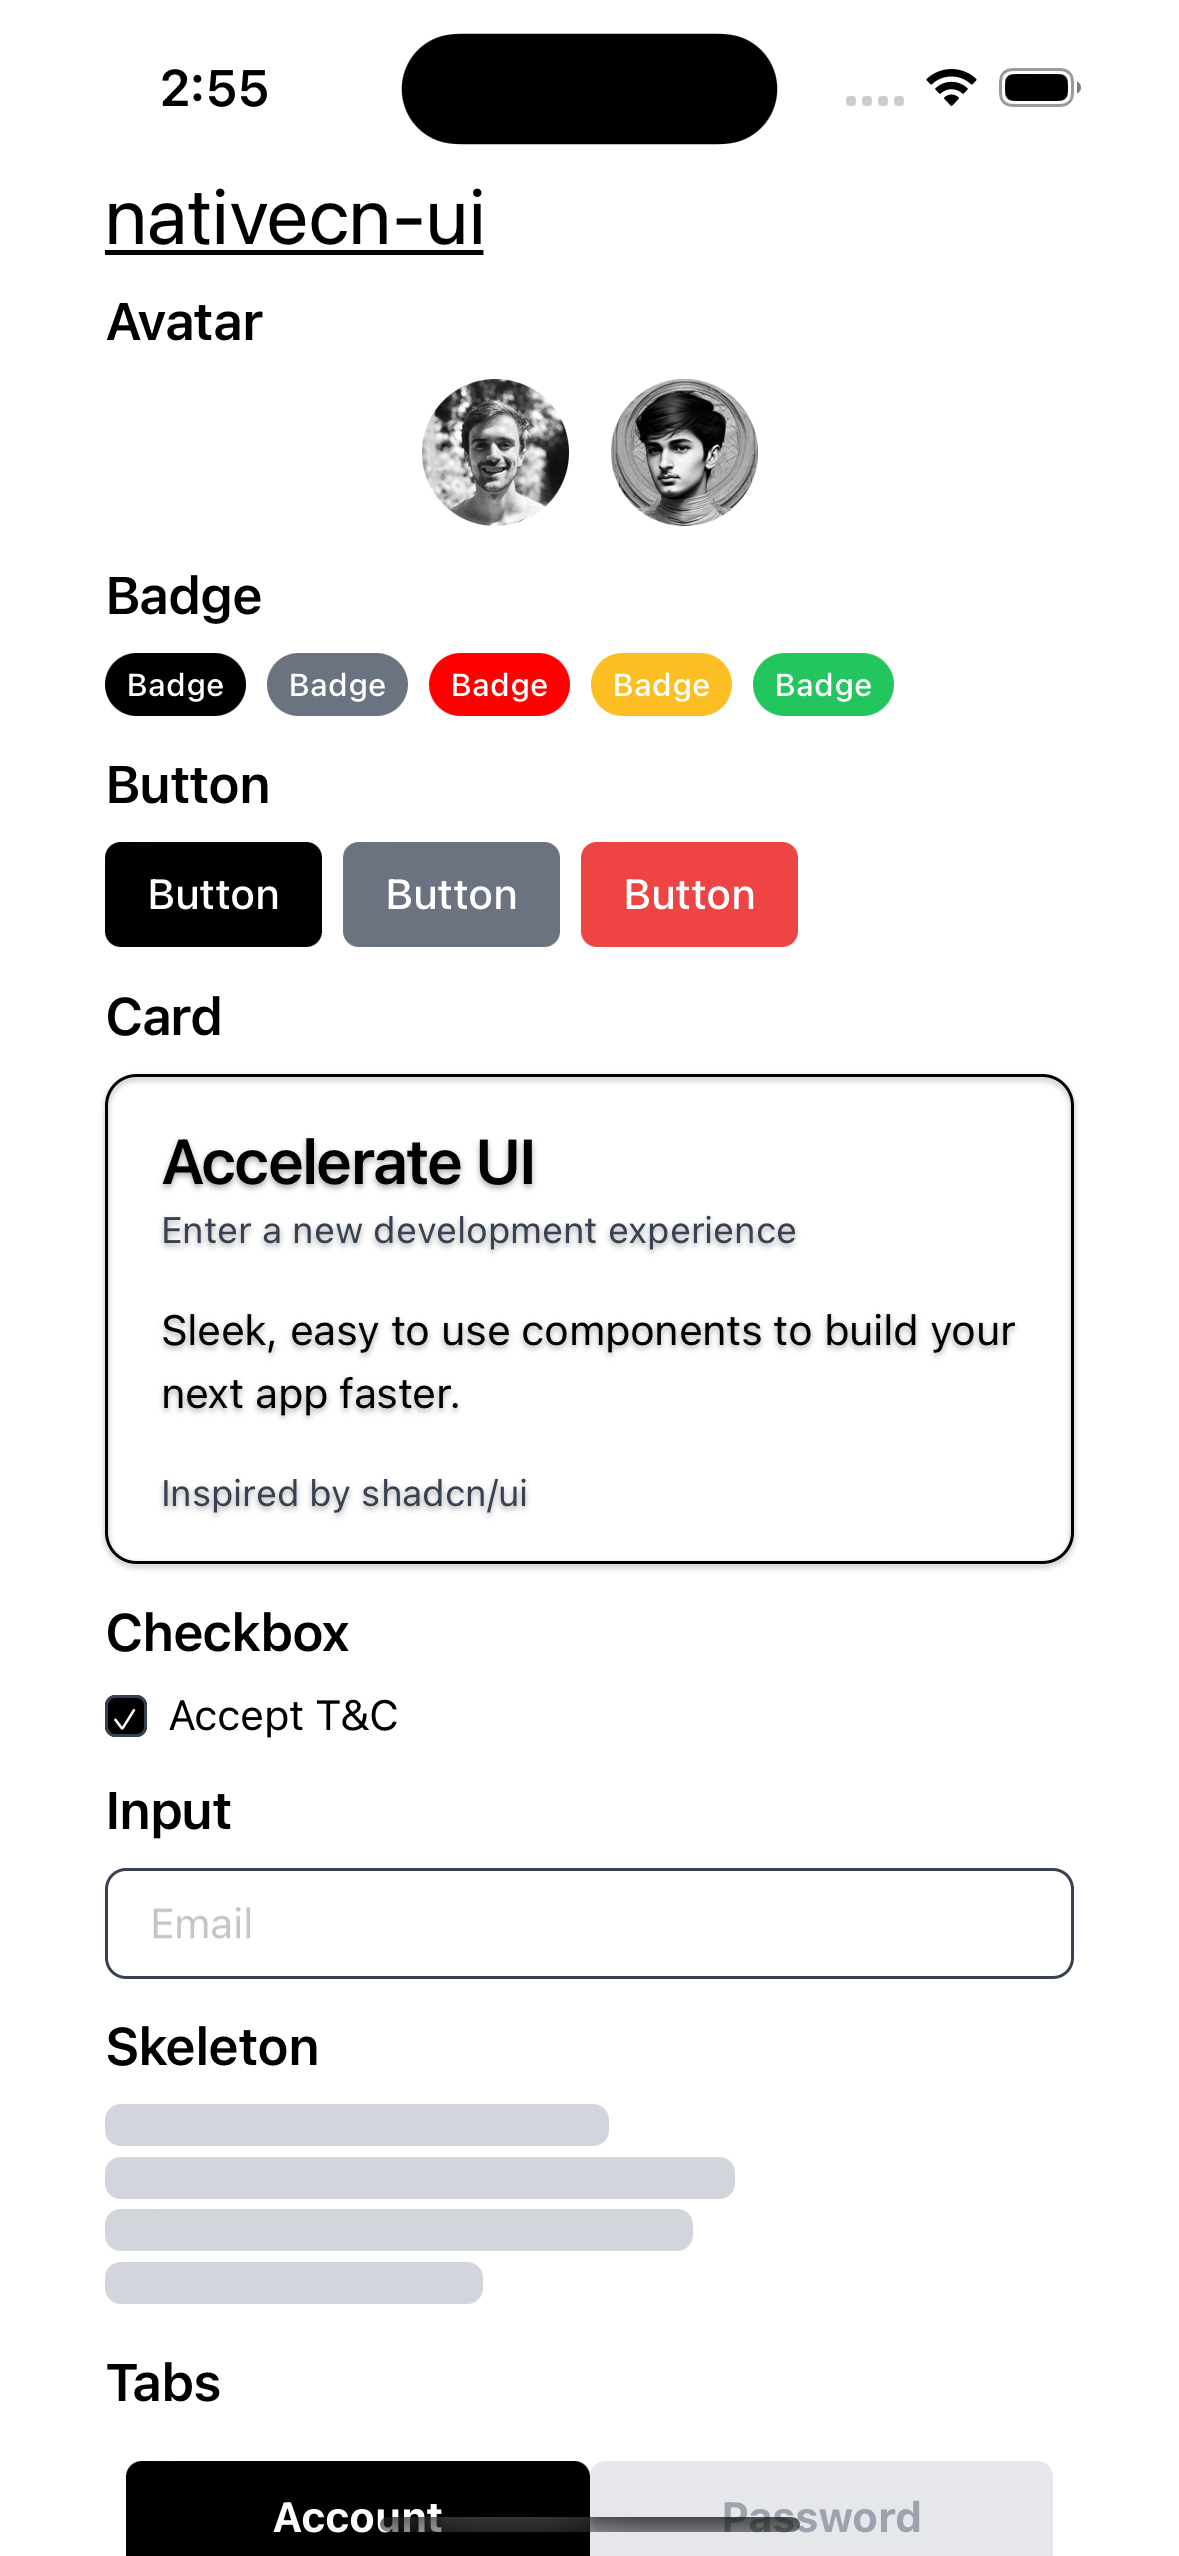
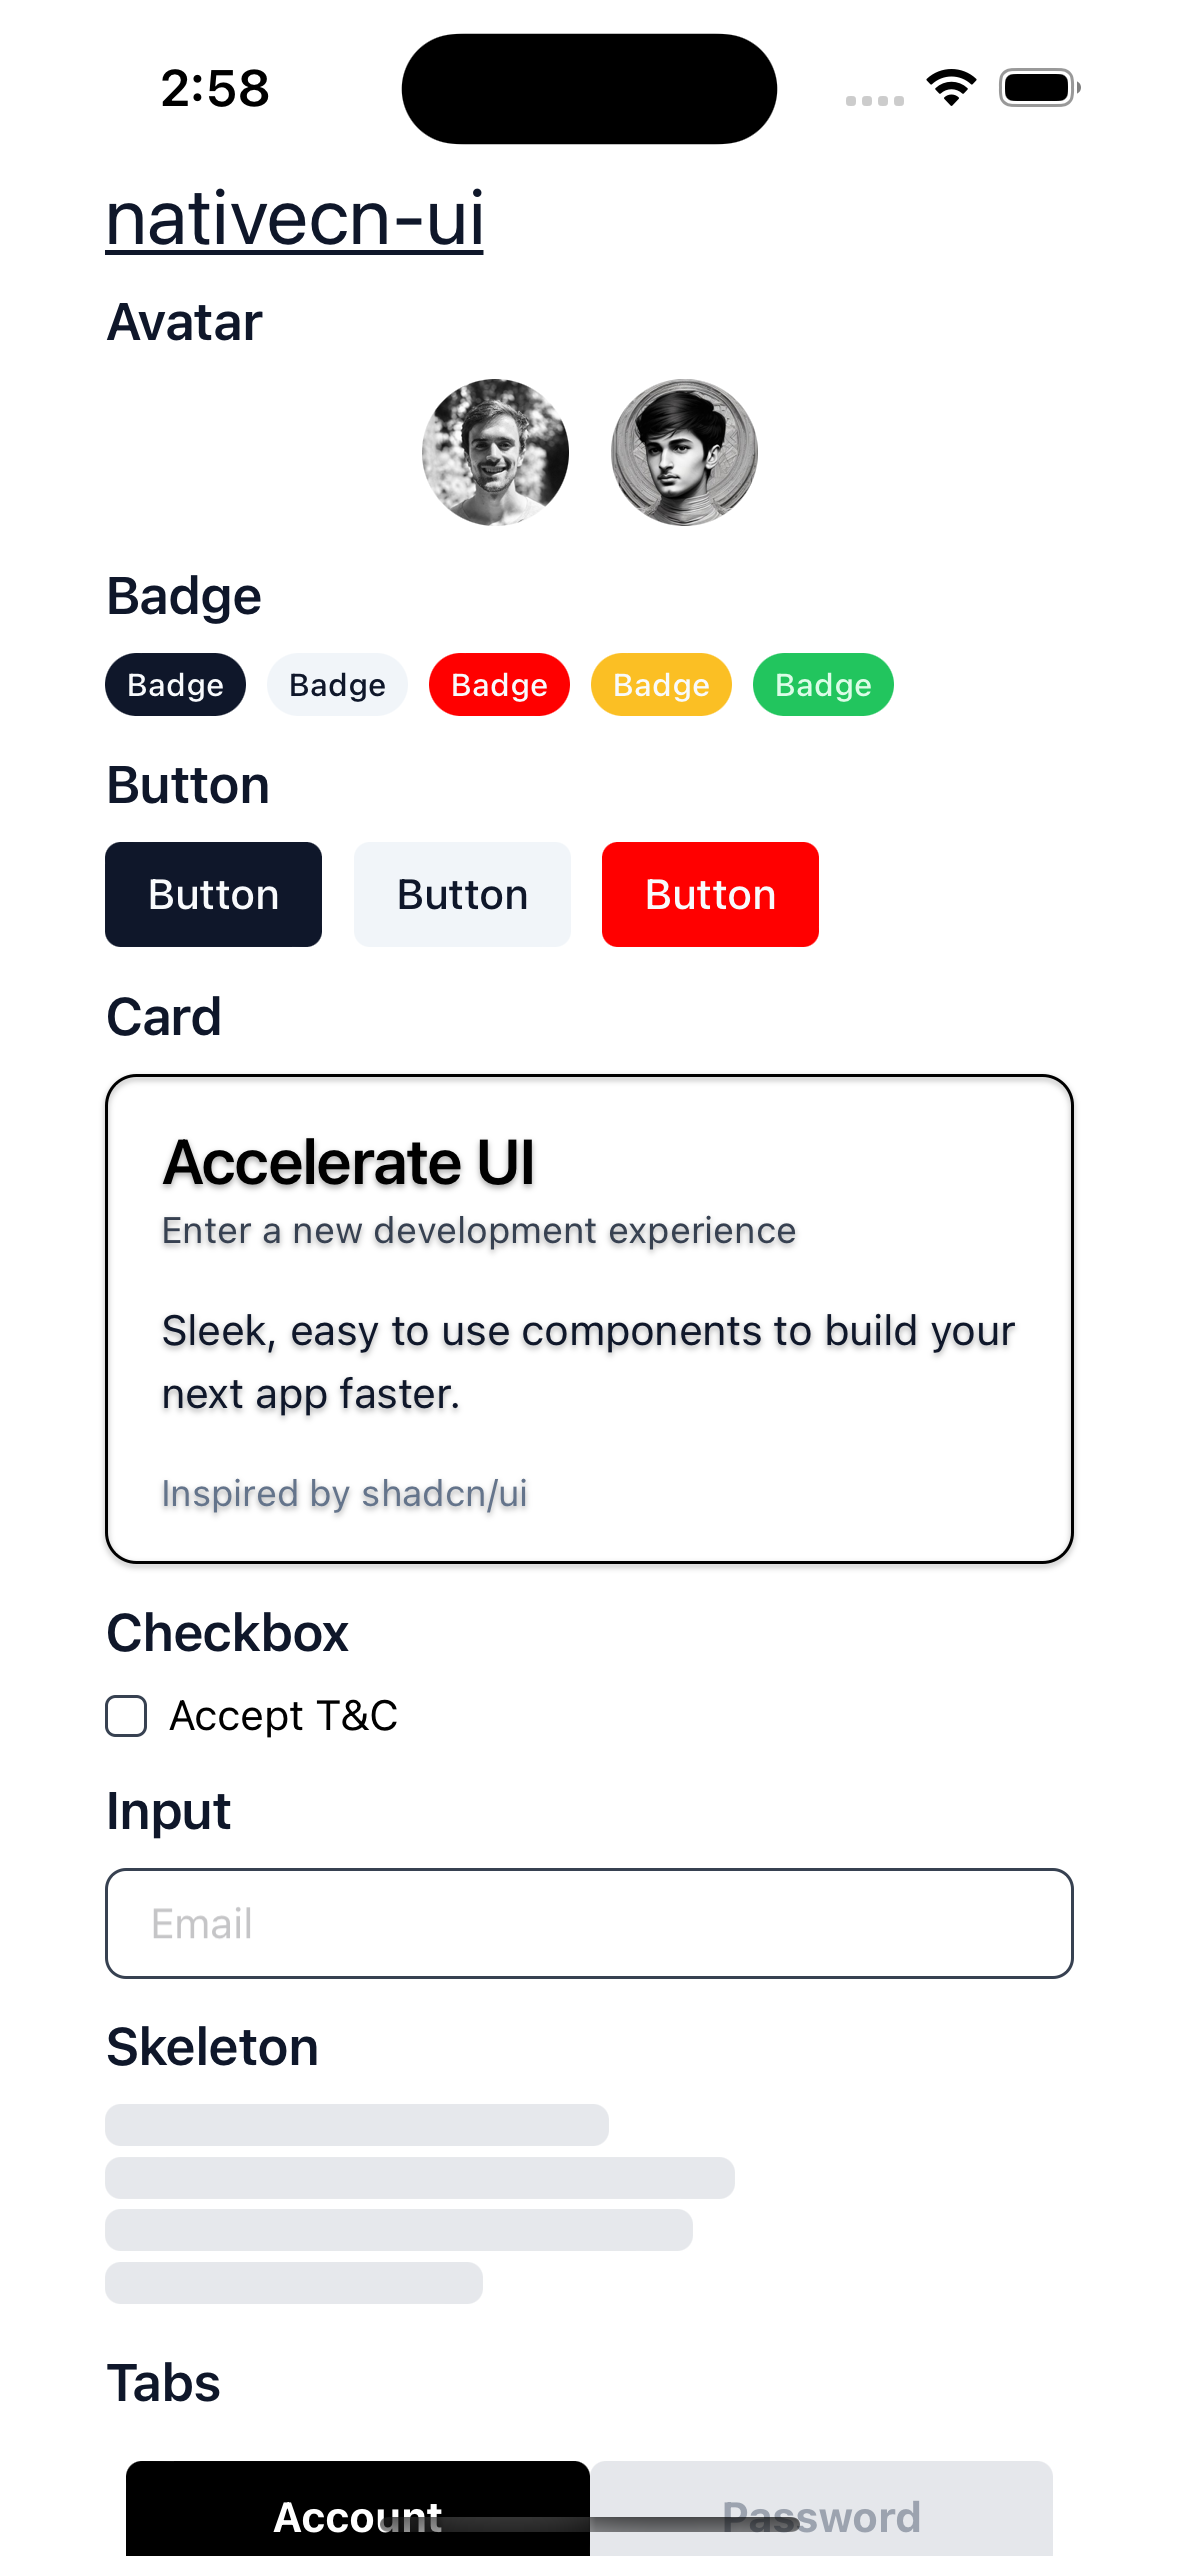
feat: auto dark theme 🌖

diff --git a/App.tsx b/App.tsx
@@ -28,15 +28,13 @@ export default function App() {
 
   return (
     <ToastProvider position="top">
-      <ScrollView className="bg-background dark:bg-black flex-1 py-16 px-10">
-        <Text className="mb-2 text-3xl underline dark:text-white">
+      <ScrollView className="bg-background flex-1 py-16 px-10">
+        <Text className="mb-2 text-3xl underline text-primary">
           nativecn-ui
         </Text>
         <View className="flex gap-3">
           <View className="flex gap-2">
-            <Text className="font-semibold text-xl dark:text-white">
-              Avatar
-            </Text>
+            <Text className="font-semibold text-xl text-primary">Avatar</Text>
             <View className="flex justify-center items-center flex-row gap-4">
               <Avatar className="h-14 w-14">
                 <AvatarImage
@@ -57,20 +55,18 @@ export default function App() {
             </View>
           </View>
           <View className="flex gap-2">
-            <Text className="font-semibold text-xl dark:text-white">Badge</Text>
+            <Text className="font-semibold text-xl text-primary">Badge</Text>
             <View className="flex flex-row gap-2">
               <Badge label="Badge" />
               <Badge label="Badge" variant="secondary" />
               <Badge label="Badge" variant="destructive" />
-              <Badge label="Badge" className="bg-amber-400 dark:bg-amber-400" />
+              <Badge label="Badge" className="bg-amber-400 dark:bg-amber-600" />
               <Badge label="Badge" variant="success" />
             </View>
           </View>
           <View className="flex gap-2">
-            <Text className="font-semibold text-xl dark:text-white">
-              Button
-            </Text>
-            <View className="flex flex-row gap-2">
+            <Text className="font-semibold text-xl text-primary">Button</Text>
+            <View className="flex flex-row gap-3">
               <Button label="Button" onPress={() => Alert.alert('Pressed 1')} />
               <Button
                 label="Button"
@@ -85,7 +81,7 @@ export default function App() {
             </View>
           </View>
           <View className="flex gap-2">
-            <Text className="font-semibold text-xl dark:text-white">Card</Text>
+            <Text className="font-semibold text-xl text-primary">Card</Text>
             <Card>
               <CardHeader>
                 <CardTitle>Accelerate UI</CardTitle>
@@ -94,25 +90,23 @@ export default function App() {
                 </CardDescription>
               </CardHeader>
               <CardContent>
-                <Text className="text-base text-black dark:text-white">
+                <Text className="text-base text-primary">
                   Sleek, easy to use components to build your next app faster.
                 </Text>
               </CardContent>
               <CardFooter>
-                <Text className="text-sm text-gray-700 dark:text-gray-400">
+                <Text className="text-sm text-muted-foreground">
                   Inspired by shadcn/ui
                 </Text>
               </CardFooter>
             </Card>
           </View>
           <View className="flex gap-2">
-            <Text className="font-semibold text-xl dark:text-white">
-              Checkbox
-            </Text>
+            <Text className="font-semibold text-xl text-primary">Checkbox</Text>
             <Checkbox label="Accept T&C" />
           </View>
           <View className="flex gap-2">
-            <Text className="font-semibold text-xl dark:text-white">Input</Text>
+            <Text className="font-semibold text-xl text-primary">Input</Text>
             <View>
               <Input
                 placeholder="Email"
@@ -122,9 +116,7 @@ export default function App() {
             </View>
           </View>
           <View className="flex gap-2">
-            <Text className="font-semibold text-xl dark:text-white">
-              Skeleton
-            </Text>
+            <Text className="font-semibold text-xl text-primary">Skeleton</Text>
             <View className="flex">
               <Skeleton classes="w-48 h-4 mb-1" />
               <Skeleton classes="w-60 h-4 mb-1" />
@@ -133,21 +125,19 @@ export default function App() {
             </View>
           </View>
           <View className="flex gap-2 mt-1">
-            <Text className="font-semibold text-xl dark:text-white">Tabs</Text>
+            <Text className="font-semibold text-xl text-primary">Tabs</Text>
             <Tabs defaultValue="account">
               <TabsList>
                 <TabsTrigger id="account" title="Account" />
                 <TabsTrigger id="password" title="Password" />
               </TabsList>
               <TabsContent value="account">
-                <Text className="text-black dark:text-white">
+                <Text className="text-primary">
                   Make changes to your account here.
                 </Text>
               </TabsContent>
               <TabsContent value="password">
-                <Text className="text-black dark:text-white">
-                  Change your password here.
-                </Text>
+                <Text className="text-primary">Change your password here.</Text>
               </TabsContent>
             </Tabs>
           </View>

diff --git a/components/Badge.tsx b/components/Badge.tsx
@@ -8,10 +8,10 @@ const badgeVariants = cva(
   {
     variants: {
       variant: {
-        default: 'bg-black dark:bg-white',
-        secondary: 'bg-gray-500',
-        destructive: 'bg-destructive text-destructive',
-        success: 'bg-green-500',
+        default: 'bg-primary',
+        secondary: 'bg-secondary',
+        destructive: 'bg-destructive',
+        success: 'bg-green-500 dark:bg-green-700',
       },
     },
     defaultVariants: {
@@ -19,6 +19,20 @@ const badgeVariants = cva(
     },
   }
 );
+
+const badgeTextVariants = cva('font-medium text-center text-xs', {
+  variants: {
+    variant: {
+      default: 'text-primary-foreground',
+      secondary: 'text-secondary-foreground',
+      destructive: 'text-destructive-foreground',
+      success: 'text-green-100',
+    },
+  },
+  defaultVariants: {
+    variant: 'default',
+  },
+});
 
 export interface BadgeProps
   extends React.ComponentPropsWithoutRef<typeof View>,
@@ -34,13 +48,8 @@ function Badge({
   ...props
 }: BadgeProps) {
   return (
-    <View className={cn(badgeVariants({ variant, className }))} {...props}>
-      <Text
-        className={cn(
-          labelClasses,
-          'font-medium text-center text-xs text-white dark:text-black'
-        )}
-      >
+    <View className={cn(badgeVariants({ variant }), className)} {...props}>
+      <Text className={cn(badgeTextVariants({ variant }), labelClasses)}>
         {label}
       </Text>
     </View>

diff --git a/components/Button.tsx b/components/Button.tsx
@@ -8,9 +8,9 @@ const buttonVariants = cva(
   {
     variants: {
       variant: {
-        default: 'bg-black dark:bg-white',
-        destructive: 'bg-red-500',
-        secondary: 'bg-gray-500',
+        default: 'bg-primary',
+        secondary: 'bg-secondary',
+        destructive: 'bg-destructive',
         ghost: 'bg-slate-700',
         link: 'text-primary underline-offset-4',
       },
@@ -30,11 +30,11 @@ const buttonVariants = cva(
 const buttonTextVariants = cva('text-center font-medium', {
   variants: {
     variant: {
-      default: 'text-white dark:text-black',
-      destructive: 'text-white dark:text-black',
-      secondary: 'text-white dark:text-black',
-      ghost: 'text-white dark:text-black',
-      link: 'text-primary underline',
+      default: 'text-primary-foreground',
+      secondary: 'text-secondary-foreground',
+      destructive: 'text-destructive-foreground',
+      ghost: 'text-primary-foreground',
+      link: 'text-primary-foreground underline',
     },
     size: {
       default: 'text-base',

diff --git a/components/Avatar.tsx b/components/Avatar.tsx
@@ -45,12 +45,12 @@ const AvatarFallback = forwardRef<
   <View
     ref={ref}
     className={cn(
-      'flex h-full w-full items-center justify-center rounded-full bg-muted dark:bg-primary',
+      'flex h-full w-full items-center justify-center rounded-full bg-muted',
       className
     )}
     {...props}
   >
-    <Text className={cn('text-lg text-primary dark:text-muted', textClassname)}>
+    <Text className={cn('text-lg text-primary', textClassname)}>
       {children}
     </Text>
   </View>

diff --git a/styles/globals.css b/styles/globals.css
@@ -36,7 +36,7 @@
     --radius: 0.5rem;
   }
 
-  .dark {
+  .dark:root {
     --background: 224 71% 4%;
     --foreground: 213 31% 91%;
 
